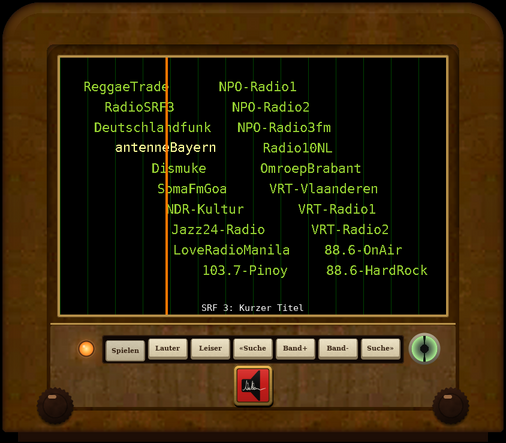
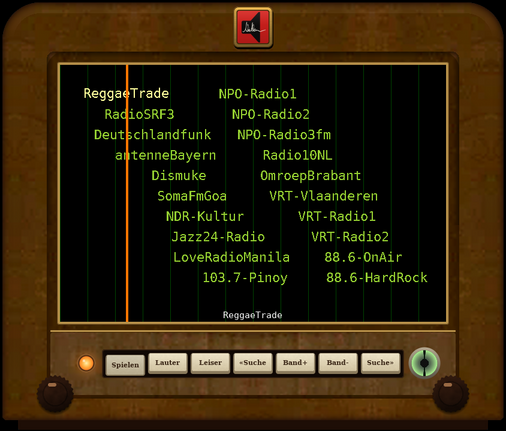
Badge back at the top, resizable radio window
- The logo badge sits at the top centre again (no screws); keys back in
  their old place, case 844x718.
- The window can be resized in both views; the aspect ratio is kept,
  the scale is remembered in the state file and used on the next start,
  textures are scaled smoothly. The frameless radio has resize grips on
  its side edges, lower corners and bottom (SDL hit test), and the X11
  shape follows the new size.

diff --git a/roehre.c b/roehre.c
@@ -127,6 +127,7 @@ static int lamp_shown = -1;           // lamp state on screen
 static int noise_on = 1;              // tuning static (-N or key n: off)
 static int shaped = 0;                // X11 window: can be cut to the case outline
 static int fullscreen = 0;
+static int scale_milli = 1000;        // window size / logical size, remembered
 static volatile sig_atomic_t stop_requested = 0;
 enum { WIN_NONE, WIN_SHOW, WIN_HIDE, WIN_TOGGLE, WIN_RADIO, WIN_DISPLAY };
 static volatile sig_atomic_t window_request = WIN_NONE;
@@ -834,8 +835,43 @@ static SDL_HitTestResult hit_test(SDL_Window *win, const SDL_Point *pt, void *da
   SDL_GetWindowSize(win, &ww, &wh);
   if (ww <= 0 || wh <= 0)
     return SDL_HITTEST_NORMAL;
-  return cabinet_hit(pt->x * CAB_W / ww, pt->y * CAB_H / wh) == CAB_HIT_NONE
-         ? SDL_HITTEST_DRAGGABLE : SDL_HITTEST_NORMAL;
+  {
+    /* resize grips on the case (inside its outline, logical units):
+       the side edges and the lower corners of the wooden body */
+    int lx = pt->x * CAB_W / ww, ly = pt->y * CAB_H / wh;
+    int left = lx < 18, right = lx >= CAB_W - 18;
+    int low = ly >= CAB_H - 70;
+    if (low && lx >= CAB_W - 44)
+      return SDL_HITTEST_RESIZE_BOTTOMRIGHT;
+    if (low && lx < 44)
+      return SDL_HITTEST_RESIZE_BOTTOMLEFT;
+    if (right && ly > CAB_H / 5)
+      return SDL_HITTEST_RESIZE_RIGHT;
+    if (left && ly > CAB_H / 5)
+      return SDL_HITTEST_RESIZE_LEFT;
+    if (ly >= CAB_H - 26)  /* bottom edge and plinth */
+      return SDL_HITTEST_RESIZE_BOTTOM;
+    return cabinet_hit(lx, ly) == CAB_HIT_NONE ? SDL_HITTEST_DRAGGABLE : SDL_HITTEST_NORMAL;
+  }
+}
+
+/*
+ * The user resized the window: keep the aspect ratio of the radio or
+ * display, remember the scale and cut the shape to the new size.
+ */
+static void window_resized(int w, int h)
+{
+  int lw = cabinet_on ? CAB_W : WIN_WIDTH, lh = cabinet_on ? CAB_H : WIN_HEIGHT;
+  int want = w * lh / lw;
+
+  scale_milli = w * 1000 / lw;
+  if (abs(want - h) > 2) {
+    SDL_SetWindowSize(window, w, want);  /* comes back as another event */
+    return;
+  }
+  if (shaped)
+    apply_shape(cabinet_on, w, h);
+  refresh_now = 1;
 }
 
 /* switch the radio case on/off */
@@ -864,6 +900,9 @@ static void set_cabinet(int on)
   h = on ? CAB_H : WIN_HEIGHT;
   SDL_RenderSetLogicalSize(renderer, w, h);
   if (!fullscreen) {
+    SDL_SetWindowMinimumSize(window, w / 3, h / 3);
+    w = w * scale_milli / 1000;  /* keep the user's size */
+    h = h * scale_milli / 1000;
     SDL_SetWindowSize(window, w, h);
     /* the radio has no window frame, the display alone keeps it */
     SDL_SetWindowBordered(window, on ? SDL_FALSE : SDL_TRUE);
@@ -989,6 +1028,10 @@ static int process_events(void)
       move_tuner(dir > 0 ? +KEY_STEP : -KEY_STEP);  /* wheel tunes */
       break;
     }
+    case SDL_WINDOWEVENT:
+      if (event.window.event == SDL_WINDOWEVENT_SIZE_CHANGED && !fullscreen)
+        window_resized(event.window.data1, event.window.data2);
+      break;
     case SDL_QUIT:
       return 0;
     default:
@@ -1004,7 +1047,7 @@ static int process_events(void)
 /* ------------------------------------------------------------------ */
 
 static char state_file[PATH_MAX + 16];
-static int saved_page = -1, saved_xpos = 0, saved_cabinet = -1;
+static int saved_page = -1, saved_xpos = 0, saved_cabinet = -1, saved_scale = 1000;
 
 /* $XDG_STATE_HOME/retrowebradio/position or ~/.local/state/... */
 static void init_state_file(void)
@@ -1030,14 +1073,19 @@ static void init_state_file(void)
 static void load_position(void)
 {
   FILE *fp;
-  int page, x, cab, n;
+  int page, x, cab, sc, n;
 
   if (state_file[0] == '\0' || (fp = fopen(state_file, "r")) == NULL)
     return;
-  n = fscanf(fp, "%d %d %d", &page, &x, &cab);
-  if (n == 3) {
+  n = fscanf(fp, "%d %d %d %d", &page, &x, &cab, &sc);
+  if (n >= 3) {
     cabinet_on = cab != 0;
     saved_cabinet = cabinet_on;
+    saved_scale = scale_milli;
+  }
+  if (n == 4 && sc >= 250 && sc <= 4000) {
+    scale_milli = sc;
+    saved_scale = sc;
   }
   if (n >= 2 &&
       page >= 1 && page <= stations.pages &&
@@ -1056,12 +1104,13 @@ static void save_position(void)
   FILE *fp;
 
   if (state_file[0] == '\0' ||
-      (current_page == saved_page && xpos == saved_xpos && cabinet_on == saved_cabinet))
+      (current_page == saved_page && xpos == saved_xpos && cabinet_on == saved_cabinet &&
+       scale_milli == saved_scale))
     return;
   snprintf(tmp, sizeof(tmp), "%s.tmp", state_file);
   if ((fp = fopen(tmp, "w")) == NULL)
     return;
-  fprintf(fp, "%d %d %d\n", current_page, xpos, cabinet_on);
+  fprintf(fp, "%d %d %d %d\n", current_page, xpos, cabinet_on, scale_milli);
   if (fclose(fp) == 0 && rename(tmp, state_file) == 0) {
     saved_page = current_page;
     saved_xpos = xpos;
@@ -1285,8 +1334,9 @@ int main(int argc, char *argv[])
   if (force_cabinet >= 0)
     cabinet_on = force_cabinet;
   window = SDL_CreateWindow("RetroWebRadio", SDL_WINDOWPOS_UNDEFINED, SDL_WINDOWPOS_UNDEFINED,
-                              cabinet_on ? CAB_W : WIN_WIDTH, cabinet_on ? CAB_H : WIN_HEIGHT,
-                              fullscreen ? SDL_WINDOW_FULLSCREEN_DESKTOP : 0);
+                              (cabinet_on ? CAB_W : WIN_WIDTH) * scale_milli / 1000,
+                              (cabinet_on ? CAB_H : WIN_HEIGHT) * scale_milli / 1000,
+                              fullscreen ? SDL_WINDOW_FULLSCREEN_DESKTOP : SDL_WINDOW_RESIZABLE);
   if (window == NULL)
     die("SDL_CreateWindow");
   {
@@ -1298,6 +1348,7 @@ int main(int argc, char *argv[])
       SDL_FreeSurface(icon);
     }
   }
+  SDL_SetHint(SDL_HINT_RENDER_SCALE_QUALITY, "linear");  /* smooth when resized */
   renderer = SDL_CreateRenderer(window, -1, SDL_RENDERER_PRESENTVSYNC);
   if (renderer == NULL)
     renderer = SDL_CreateRenderer(window, -1, 0);

diff --git a/cabinet.c b/cabinet.c
@@ -39,7 +39,7 @@
 #define KEY_H       34
 #define KEY_GAP     5
 #define PRESS_DY    3
-#define KEYS_Y      (PANEL_Y0 + 22)
+#define KEYS_Y      (PANEL_Y0 + 34)
 #define LAMP_X      (CAB_W / 2 - (CAB_KEYS * (KEY_W + KEY_GAP)) / 2 - 30)
 #define LAMP_Y      (KEYS_Y + KEY_H / 2)
 #define LAMP_R      12
@@ -286,15 +286,14 @@ static uint32_t brass(double v, double px, double py)
 }
 
 /*
- * Maker's badge below the keys: brass frame around a red enamel field
+ * Maker's badge at the top centre: brass frame around a red enamel field
  * with the Niethammer-Audio speaker and signature (masks from logo.h,
  * traced smooth by textures/mklogo.py).
  */
 static void draw_badge(SDL_Surface *s)
 {
-  const int top = KEYS_Y + KEY_H + 8, bottom = RECESS_Y1 - 6;
   const int fw = LOGO_W, fh = LOGO_H, fx0 = (CAB_W - LOGO_W) / 2;
-  const int fy0 = top + (bottom - top - LOGO_H) / 2;
+  const int fy0 = (RECESS_Y0 - LOGO_H) / 2 + 2;
   const double bx0 = fx0 - 7, by0 = fy0 - 7, bx1 = fx0 + fw + 7, by1 = fy0 + fh + 7;
   int x, y;
 
@@ -360,14 +359,14 @@ static SDL_Surface *draw_case(void)
       }
     }
 
+  draw_badge(s);
+
   /* darker front panel in a recess, with its shadow */
   veneer_box(s, RECESS_X0, RECESS_Y0, RECESS_X1, RECESS_Y1, 30, 6, 1);
   recess_shade(s, RECESS_X0, RECESS_Y0, RECESS_X1, RECESS_Y1, 12);
 
   /* figured lower panel below the dial */
   veneer_box(s, RECESS_X0 + 6, PANEL_Y0, RECESS_X1 - 6, RECESS_Y1 - 6, 4, 4, 2);
-
-  draw_badge(s);
 
   /* thin gold strip around the dial and above the keys */
   rrect(s, CAB_DIAL_X - 5, CAB_DIAL_Y - 5, CAB_DIAL_X + 644 + 5, CAB_DIAL_Y + 428 + 5,

diff --git a/cabinet.h b/cabinet.h
@@ -9,9 +9,9 @@
 
 /* logical size of the whole cabinet and position of the 644x428 dial */
 #define CAB_W      844
-#define CAB_H      738
+#define CAB_H      718
 #define CAB_DIAL_X 100
-#define CAB_DIAL_Y 96
+#define CAB_DIAL_Y 108
 
 /* push buttons below the dial, left to right */
 enum {

diff --git a/README.md b/README.md
@@ -108,7 +108,7 @@ or call `./stationslist2xml.sh [-n per_page] [list.txt] > stations.xml` directly
 | Option | Meaning |
 |--------|---------|
 | `-f` | fullscreen, scaled to the display with the aspect ratio kept |
-| `-g`, `--radio` | the radio: cabinet around the dial, window without frame, cut to the outline of the case (X11), moved by dragging the case |
+| `-g`, `--radio` | the radio: cabinet around the dial, window without frame, cut to the outline of the case (X11), moved by dragging the case, resized at its sides and lower corners |
 | `-G`, `--display` | only the display (dial) in a normal window (default for both: as last time) |
 | `-N`, `--no-noise` | no static between stations |
 | `-s` | station list; default: next to the binary, `./`, `~/.config/retrowebradio/`, `PREFIX/share/retrowebradio` |
@@ -129,6 +129,8 @@ or call `./stationslist2xml.sh [-n per_page] [list.txt] > stations.xml` directly
 | mouse wheel | tune |
 | mouse click / touch | put the tuner there |
 | q, Esc | quit |
+
+Both views can be resized; the aspect ratio is kept and the size is remembered.
 
 The dial position (page and tuner) is saved in `~/.local/state/retrowebradio/position`
 and restored on the next start, so the radio comes back on the last station. If mpd is
@@ -153,7 +155,7 @@ paused and red when muted.
 The magic eye (right) closes as the tuner reaches a station and opens between stations.
 The mouse wheel tunes. The labels use DejaVu Serif if installed, else the dial font.
 
-A brass-framed enamel badge with the Niethammer-Audio logo sits below the keys (generated
+A brass-framed enamel badge with the Niethammer-Audio logo sits at the top centre (generated
 into `logo.h` by `textures/mklogo.py`, which traces the logo with potrace to smooth the
 lettering).
 
